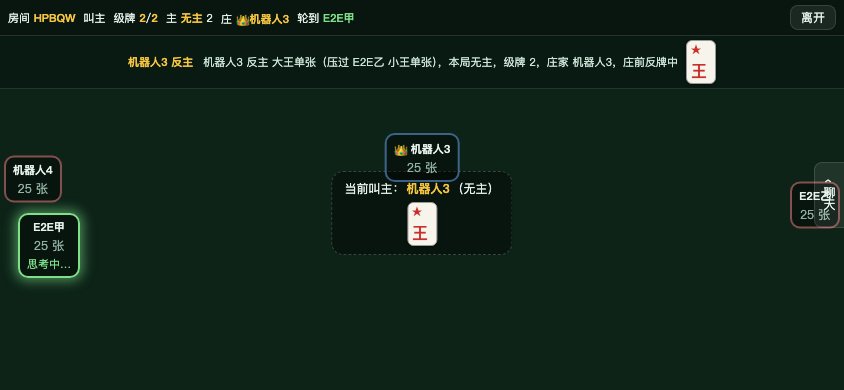
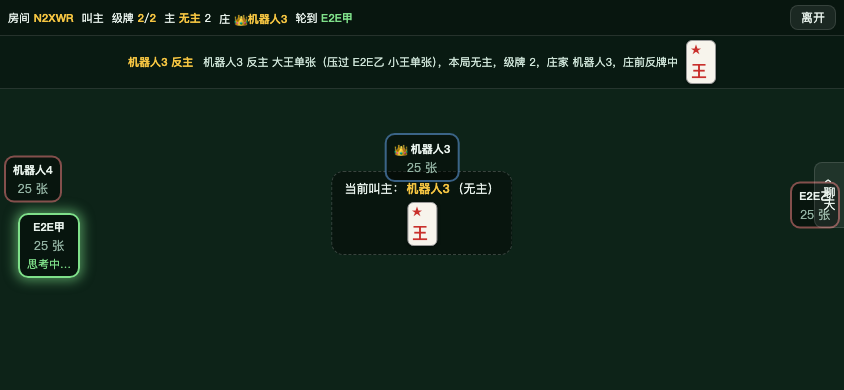
test: cover browser refresh recovery

Changed region(s): [[0.0308, 0.0308, 0.4313, 0.0615]]

diff --git a/apps/web/e2e/bidding-flow.e2e.ts b/apps/web/e2e/bidding-flow.e2e.ts
@@ -49,6 +49,12 @@ test('two browser contexts observe a deterministic reveal and counter flow', asy
   await expect(host.locator('body')).toContainText('小王单张');
   await expect(guest.locator('body')).toContainText('小王单张');
 
+  await guest.reload();
+  await expect(guest.locator('body')).toContainText(roomCode!);
+  await expect(guest.locator('body')).toContainText('反主');
+  await expect(guest.locator('body')).toContainText('小王单张');
+  await expect(guest.locator('body')).toContainText('E2E乙');
+
   await host.screenshot({ path: `${artifactDir}/two-context-counter-host.png`, fullPage: true });
   await guest.screenshot({ path: `${artifactDir}/two-context-counter-guest.png`, fullPage: true });
 

diff --git a/docs/iteration/review-notes.md b/docs/iteration/review-notes.md
@@ -330,3 +330,20 @@
 
 - 回滚建议：如本轮引发布局回归，可先回滚 CSS 中 `.player-left top: 34%` 和 E2E 的 compact 断言；Playwright 基础设施可保留。
 - 剩余风险：聊天抽屉打开态、长昵称、当前墩多牌、收墩驻留仍未纳入响应式 E2E。
+
+## 2026-07-22：ITER-002 第三小闭环重连评审
+
+### QA 测试工程师
+
+- 发现：已有 server reconnect 测试证明手牌恢复，但浏览器层没有验证刷新后公共牌局信息是否还可见。
+- 采纳：E2E 在 guest 完成小王反主后执行 `page.reload()`，断言同房间码、反主、小王单张和昵称恢复。
+
+### 产品经理 / 真实玩家体验官
+
+- 发现：玩家刷新后最关心的是“我还在这桌吗、刚才反主结果还在吗”。
+- 采纳：本轮先覆盖刷新后公共契约和身份恢复；离线标记、多标签竞争和房间销毁留给后续重连专项。
+
+### Release Reviewer
+
+- 回滚建议：本轮仅改 E2E 和文档；如需回滚，移除 `guest.reload()` 相关断言。
+- 剩余风险：未覆盖实际网络断线、server 重启和多标签同 playerId 竞争。

diff --git a/docs/iteration/002-deterministic-e2e-harness.md b/docs/iteration/002-deterministic-e2e-harness.md
@@ -140,3 +140,27 @@ ITER-002 仍未完全完成。后续小闭环继续补：
 - 根因：`max-width: 900px` 横屏布局中 `.player-left` 仍保持 `top: 50%`，短高视口下会与左下角 `.player-bottom` 徽章挤到一起。
 - 修复：紧凑横屏下将 `.player-left` 上移到 `top: 34%`。
 - 验证：`pnpm test:e2e` 通过，截图确认左侧徽章上下分离。
+
+## 第三小闭环：刷新重连恢复反主状态
+
+2026-07-22 完成。
+
+### 范围
+
+- 在同一个 deterministic 亮主/反主 E2E 中，guest 完成小王反主后执行 `page.reload()`。
+- 断言刷新后仍能看到：
+  - 同一个房间码；
+  - 反主文案；
+  - 小王单张；
+  - guest 自己的昵称。
+
+### 验证
+
+- `pnpm test:e2e`：通过，1 个 chromium E2E。
+- `pnpm test`：通过，29 个测试文件，221 个测试。
+- `pnpm typecheck`：通过。
+- `pnpm build`：通过。
+
+### 剩余范围
+
+刷新重连 smoke 已覆盖“同一标签刷新后恢复房间与公共反主状态”。仍未覆盖断线离线标记、多标签竞争、房间销毁后重连，这些继续留在 `ITER-008` 和 ITER-002 后续 E2E。

diff --git a/docs/iteration/plan.md b/docs/iteration/plan.md
@@ -141,5 +141,5 @@
 ## 2026-07-22 执行检查点
 
 - 已完成：`ITER-011`、`ITER-012`、`ITER-015`、`ITER-016` 的主要功能闭环，以及 `BUG-017-001`、`BUG-017-002` 回归修复。
-- 当前：`ITER-002` 已完成 Playwright 基础设施、seeded server hook、两 browser context 亮主/反主 smoke，以及 `844x390` 紧凑横屏无溢出/无徽章重叠断言。
-- 下一步：继续 `ITER-002`，补收墩驻留、重连和结算 E2E；除非发现阻塞验收的新缺陷，不扩大到其他功能。
+- 当前：`ITER-002` 已完成 Playwright 基础设施、seeded server hook、两 browser context 亮主/反主 smoke、`844x390` 紧凑横屏无溢出/无徽章重叠断言，以及刷新后恢复反主状态。
+- 下一步：继续 `ITER-002`，补收墩驻留和结算 E2E；除非发现阻塞验收的新缺陷，不扩大到其他功能。

diff --git a/docs/iteration/test-report.md b/docs/iteration/test-report.md
@@ -362,3 +362,20 @@
 #### 截图
 
 - `docs/iteration/artifacts/ITER-002/screenshots/two-context-counter-compact.png`
+
+### 第三小闭环：刷新重连恢复反主状态
+
+#### 修复后验证
+
+- 命令：`pnpm test:e2e`
+- 结果：通过，1 个 chromium E2E。
+- 覆盖：guest 小王反主后刷新页面；刷新后仍显示同一房间码、反主文案、小王单张和 `E2E乙`。
+
+- 命令：`pnpm test`
+- 结果：通过，29 个测试文件，221 个测试。
+
+- 命令：`pnpm typecheck`
+- 结果：通过，`pnpm -r exec tsc --noEmit` 无错误。
+
+- 命令：`pnpm build`
+- 结果：通过，shared/game/bot/server/web 均构建成功。

diff --git a/docs/iteration/todo.md b/docs/iteration/todo.md
@@ -65,7 +65,7 @@
 
 当前完成项：`ITER-001 快速/重复操作的幂等与可理解错误反馈`。
 
-当前推进项：`ITER-002 确定性 E2E 与多客户端浏览器验证基础设施`。已完成 Playwright 基础设施、两客户端亮主/反主 smoke、紧凑横屏无溢出和玩家徽章不重叠断言；后续继续补收墩、重连和结算 E2E。
+当前推进项：`ITER-002 确定性 E2E 与多客户端浏览器验证基础设施`。已完成 Playwright 基础设施、两客户端亮主/反主 smoke、紧凑横屏无溢出/无徽章重叠、刷新恢复反主状态；后续继续补收墩和结算 E2E。
 
 ## 已知延期但必须追踪
 
